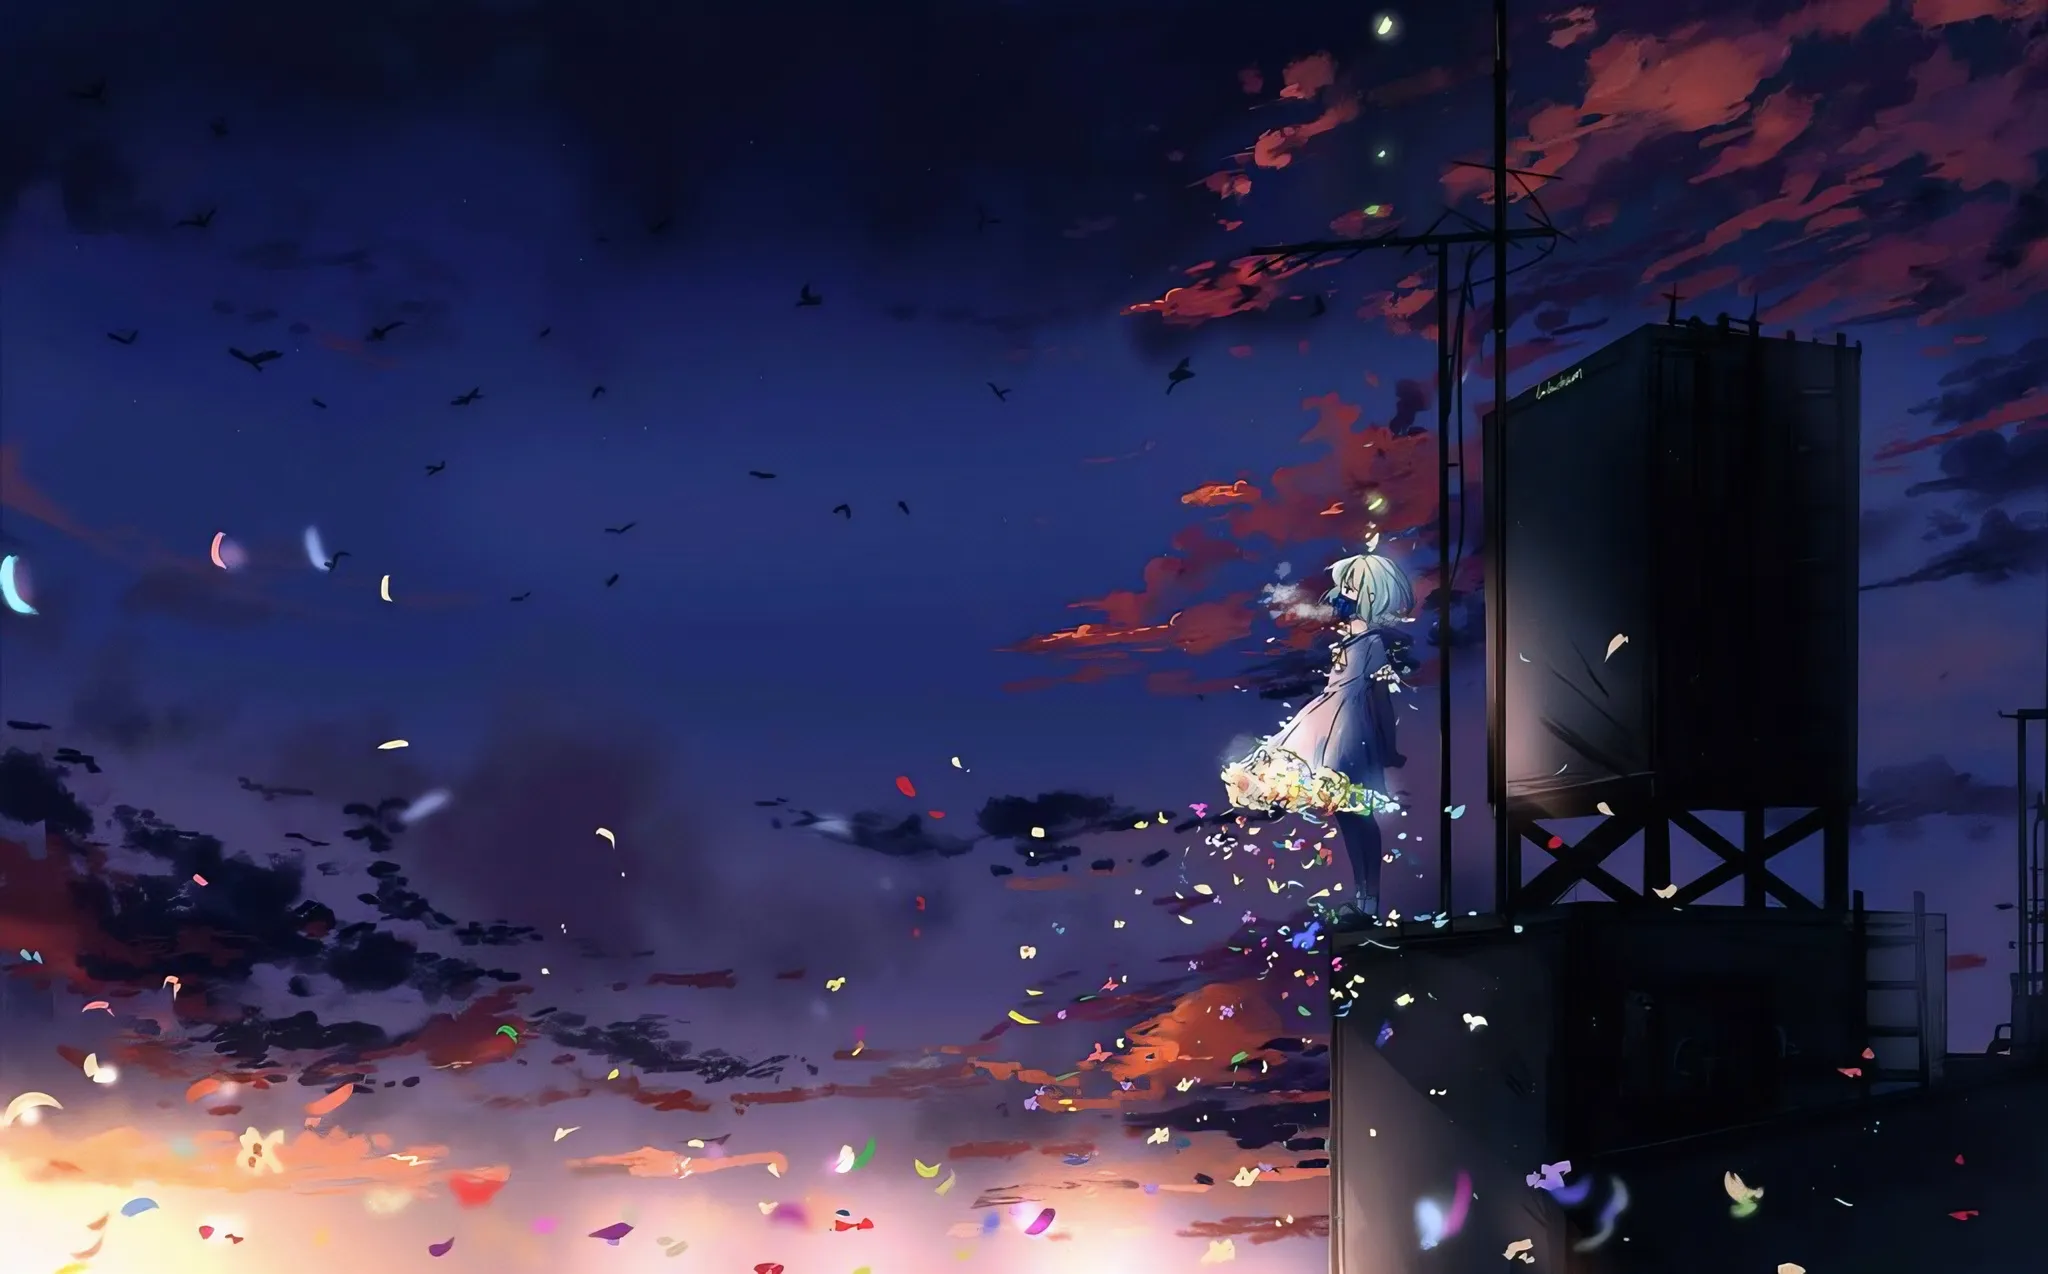
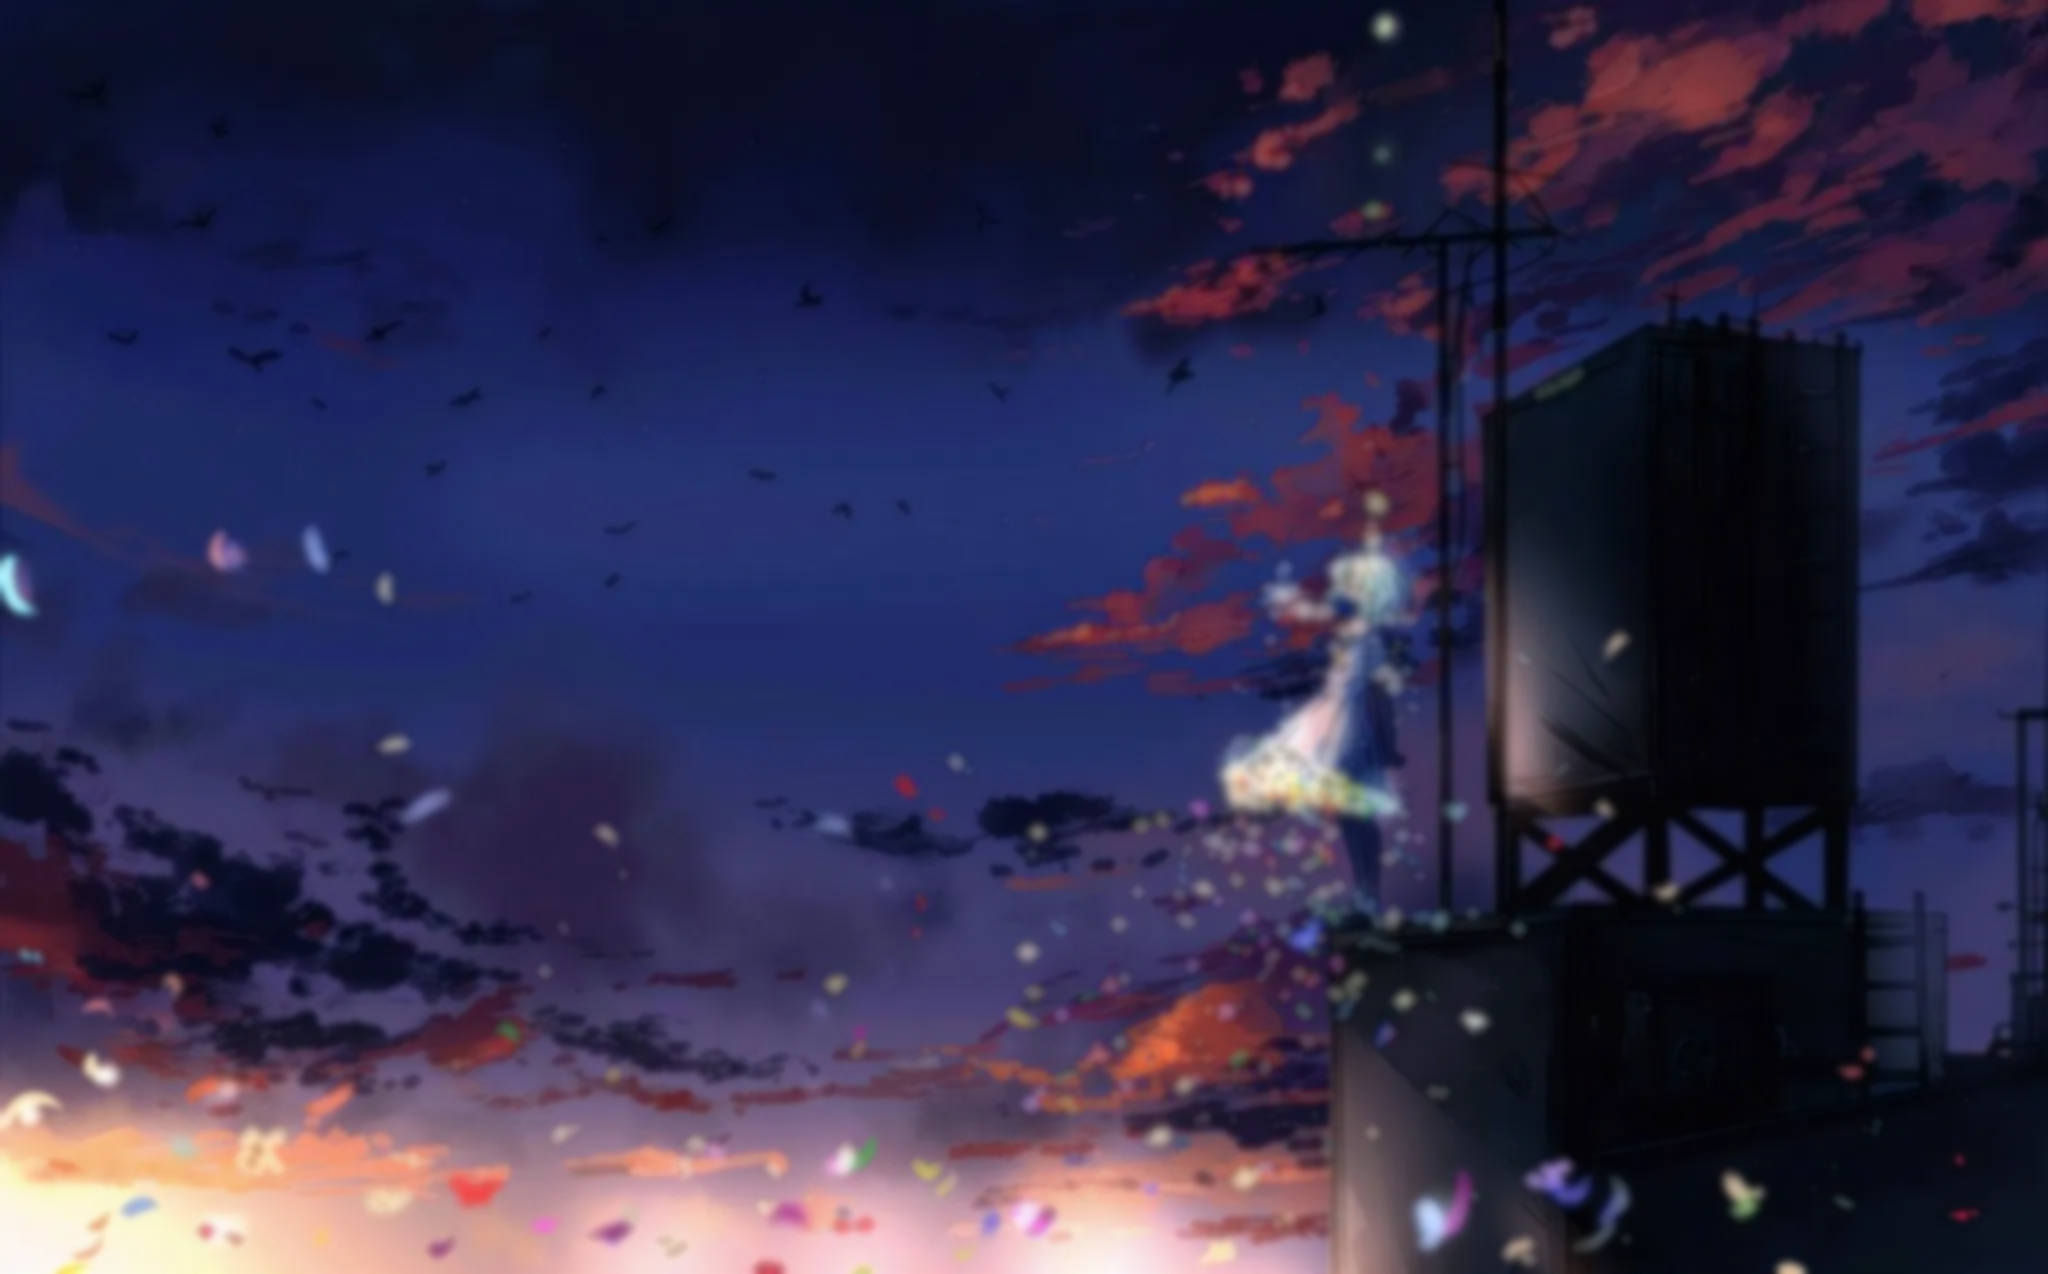
.

diff --git a/src/components/BackgroundSpace.vue b/src/components/BackgroundSpace.vue
@@ -33,8 +33,8 @@ const isBlurActive = computed(() => backgroundStore.isBlurActive)
 const CACHE_KEY = 'topMoviePoster'
 
 const getLayerStyle = (index) => {
-  const brightnessFilter = backgroundType.value === 'stars' ? 'brightness(80%)' : 'brightness(20%)'
-  const blurFilter = isBlurActive.value ? 'blur(5px)' : 'blur(0px)'
+  const brightnessFilter = backgroundType.value === 'stars' ? 'brightness(100%)' : 'brightness(20%)'
+  const blurFilter = isBlurActive.value ? 'blur(20px)' : 'blur(0px)'
 
   return {
     backgroundImage: `url(${backgrounds.value[index]})`,

diff --git a/src/store/background/background.js b/src/store/background/background.js
@@ -85,7 +85,6 @@ export const useBackgroundStore = defineStore(BACKGROUND_STORE_NAME, {
         if (type === 'disabled') {
           this.backgroundUrl = ''
         } else if (type === 'stars') {
-          this.isBlurActive = true
           this.backgroundUrl = starsBackground
         } else if (type === 'lava-lamp') {
           this.backgroundUrl = ''
